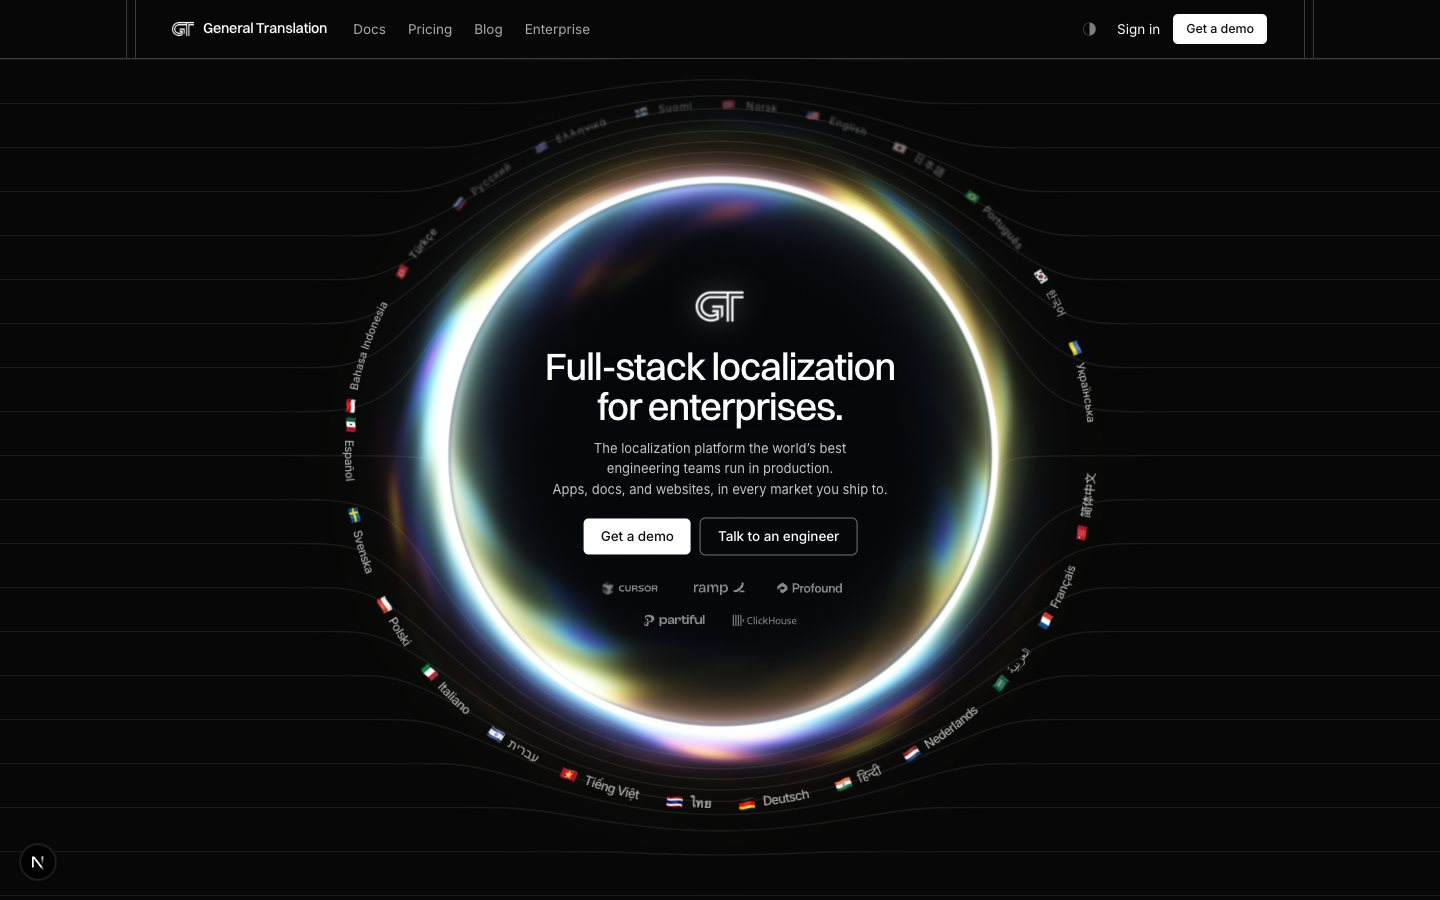
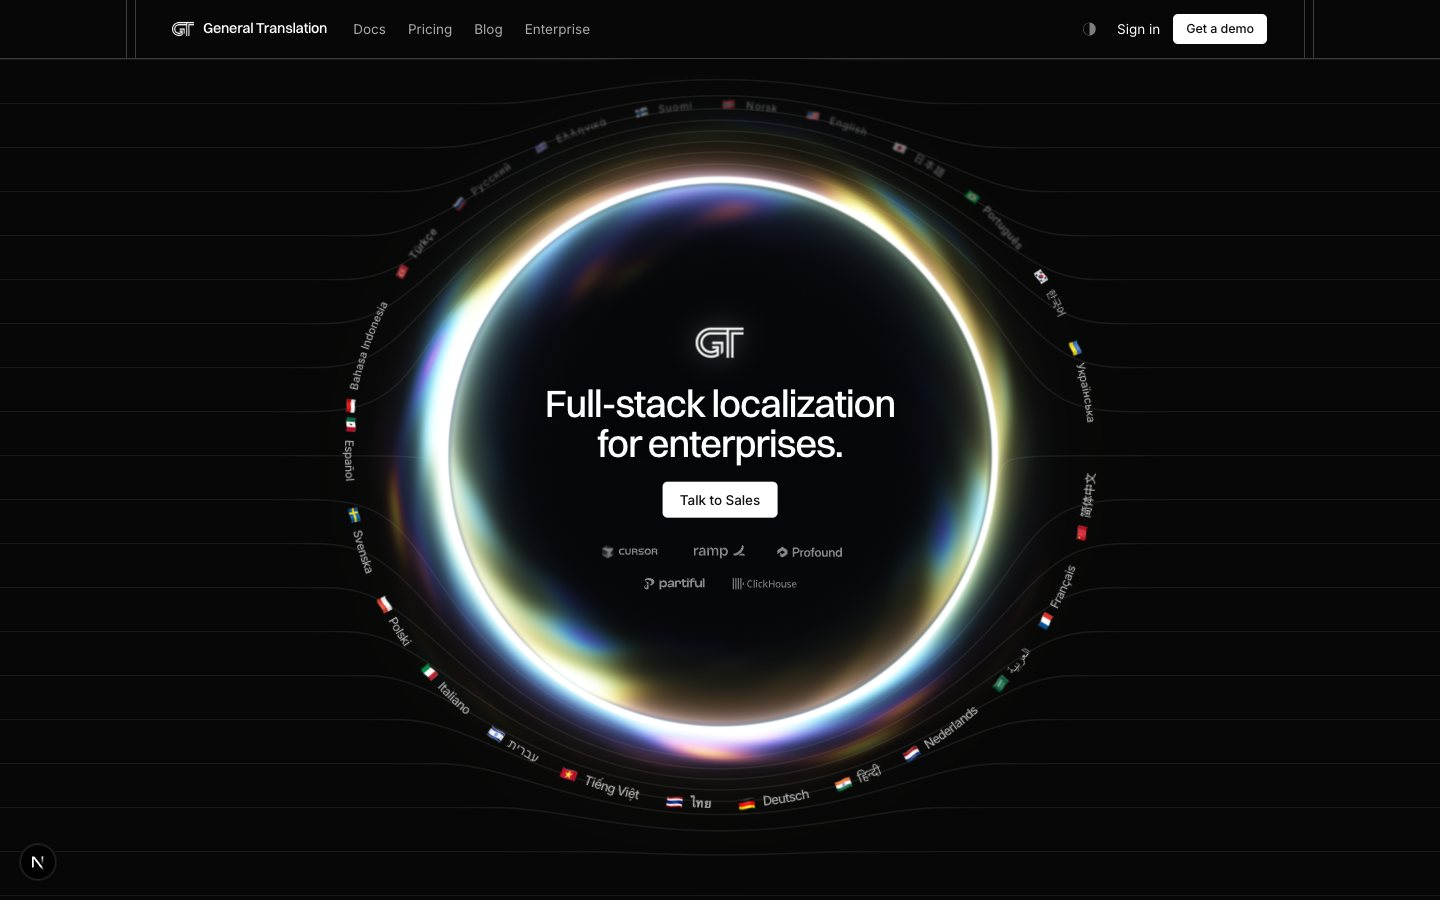
the core says one thing
No sub copy, no second CTA — the dark core holds the mark, the
headline, one Talk to Sales button, and the customers. Aura does
the rest.

Changed region(s): [[0.375, 0.3111, 0.625, 0.6533], [0.4375, 0.6844, 0.5312, 0.7156]]

diff --git a/src/app/d/singularity/sections/Hero.tsx b/src/app/d/singularity/sections/Hero.tsx
@@ -519,17 +519,9 @@ export default function Hero() {
             <span>Full-stack localization</span>
             <span>for enterprises.</span>
           </h1>
-          <p className='eh-sub' data-hero-in>
-            <span>The localization platform the world&rsquo;s best</span>
-            <span>engineering teams run in production.</span>
-            <span>Apps, docs, and websites, in every market you ship to.</span>
-          </p>
           <div className='eh-acts' data-hero-in>
             <a className='tc-btn tc-btn-solid' href='#contact'>
-              Get a demo
-            </a>
-            <a className='tc-btn tc-btn-line' href='#contact'>
-              Talk to an engineer
+              Talk to Sales
             </a>
           </div>
           {/* the customers live INSIDE the hole: quiet marks in the dark */}
